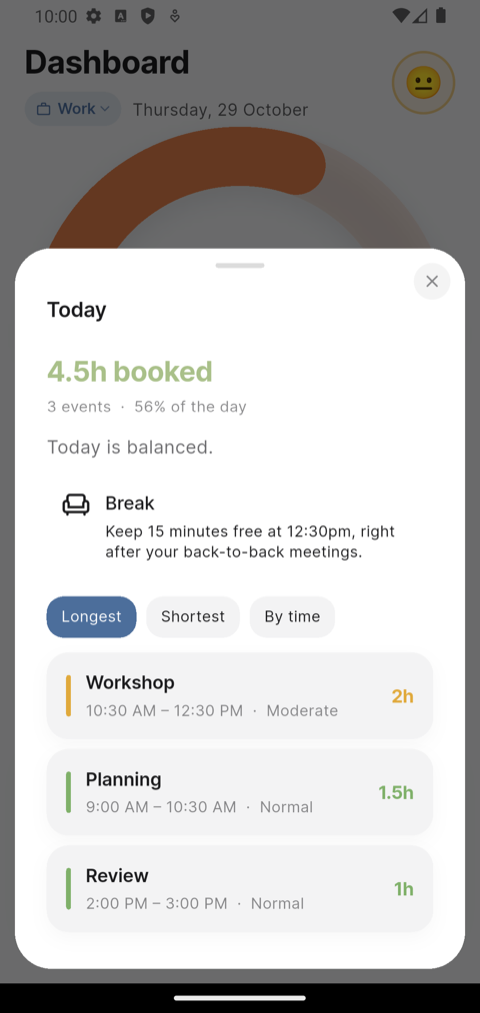
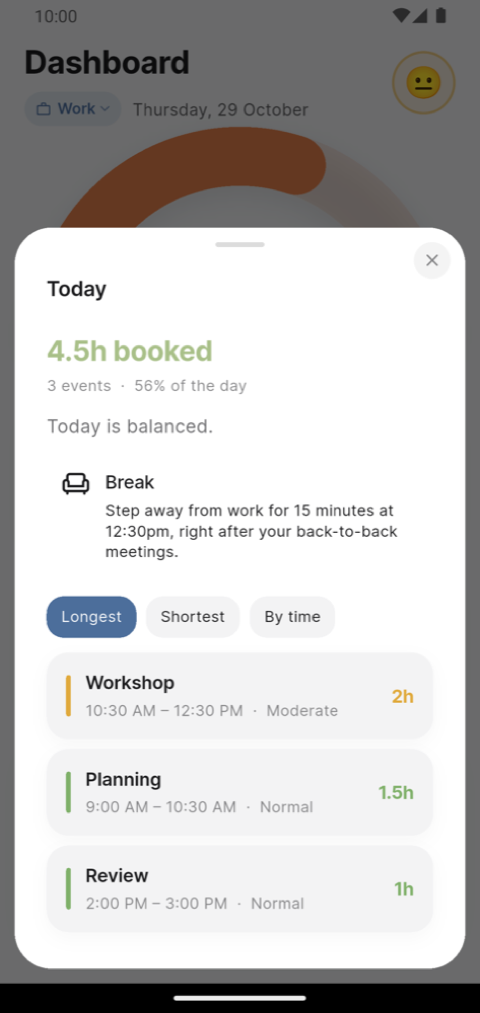
Tutorial: breaks follow the calendar and the mode; Schedule break note; new screenshots

diff --git a/tutorial/index.html b/tutorial/index.html
@@ -199,7 +199,7 @@
 <header>
   <h1>Using BAI</h1>
   <!-- Change this date whenever the guide is edited. -->
-  <p class="updated">Last updated: 29 October 2026</p>
+  <p class="updated">Last updated: 30 October 2026</p>
   <p class="lede">
     BAI helps you understand your workload and become more aware of your work-life boundaries. 
     It can support you in communicating and negotiating these boundaries with others, 
@@ -506,39 +506,57 @@
         BAI looks at your load and, when it gets heavy, says what break would help. It
         never sends this on its own; you see it when you look: <strong>tap the
         figures</strong> on the dashboard's bottom card, on the Today, Week or Month
-        tab, and the window or page that opens shows a <em>Break</em> note.
+        tab, or <strong>open a day on Schedule</strong>, and a <em>Break</em> note
+        shows when the load calls for one.
       </p>
       <ul>
-        <li><strong>Today</strong>: after 2 hours or more back to back (a gap of 10
-            minutes counts as a break), or a long or overloaded day, for example <em>keep 15 minutes free at 12:30, right after your back-to-back meetings</em>, or
-            <em>take at least 30 minutes away today</em>. The gaps are measured inside
-            your work hours when you use Fixed or Custom hours.</li>
+        <li><strong>A day</strong>: after 2 hours or more back to back (a gap of 10
+            minutes already counts as a break), on a filling-up day, or on a long or
+            overloaded day. The length follows the load: 10 minutes after 2 hours
+            back to back, up to 20 after 4 hours or more; 20 for an 8-hour day, 30
+            for an overloaded one, 45 for 10 hours or more. For example <em>step away
+            from work for 15 minutes at 12:30, right after your back-to-back
+            meetings</em>. The free time is the gaps between your events, whatever
+            schedule you use, and it never suggests more minutes than the gap holds.
+            Today in Work mode it says <em>step away from work</em>; in Life mode,
+            and for days ahead, just <em>step away</em>. A stretch that ends your day
+            gets nothing (the evening is the break), and days off get no break
+            notes.</li>
         <li><strong>This week</strong>: after two overloaded days, 4 hours or more of
-            work outside your hours, or 55 hours or more booked, it says what it saw and names an evening
-            and a day off still free, for example <em>6.5h worked outside your hours
-            this week. Keep Thursday evening and Saturday free of work</em>. This can
-            show even in a week the card calls balanced, because the card goes by
-            your average load.</li>
-        <li><strong>This month</strong>: after several heavy weeks,
-            <em>plan a day or two off in the next two weeks</em>. Short breaks
-            help more than saving up for one long holiday: the benefit of a holiday
-            fades within about a week of going back.</li>
+            work outside your hours, or 55 hours or more booked, it says what it saw
+            and names an evening still free, for example <em>6.5h worked outside
+            your hours this week. Keep Thursday evening free of work</em>. When the
+            week is well over, it names a free day off as well. This can show even
+            in a week the card calls balanced, because the card goes by your average
+            load.</li>
+        <li><strong>This month</strong>: after several heavy weeks, <em>plan a day
+            off in the next two weeks</em>, or two days off when it is heavier. Short
+            breaks help more than saving up for one long holiday: the benefit of a
+            holiday fades within about a week of going back.</li>
+        <li><strong>Dates you pick</strong> <span class="new">New</span>: choose a
+            range with the calendar button on the dashboard (then tap the figures), or
+            check dates on Schedule, and the result says what break those dates call
+            for, for example <em>3 overloaded days in these dates. Keep Mon 9 Nov
+            evening and Sat 14 Nov free of work</em>, or <em>These dates are filling
+            up. Keep Mon 9 Nov evening free of work</em>. Nothing for dates that have
+            gone.</li>
         <li><strong>After a mood check-in</strong> of Stressed, Overwhelmed or Burned
-            out while you are at work (in Work mode, and inside your work hours when
-            BAI knows them), the status that opens suggests a break at your next free
-            time, with
-            <strong>Remind me at …</strong>. Tap it and BAI reminds you then, on the
-            lock screen or in the app. After Tired, you get the suggestion without the
+            out on a work day, the status that opens suggests your next free time,
+            with <strong>Remind me at …</strong>. Tap it and BAI reminds you then, on
+            the lock screen or in the app. In Work mode it reads <em>Take a break …
+            step away from work for 15 minutes</em>; in Life mode simply <em>step
+            away for 15 minutes</em>. After Tired, you get the suggestion without the
             button.</li>
       </ul>
       <p class="pillar-when">
-        If your check-ins have been heavy for a few days, the week and month lines come
-        sooner. Nothing shows when your load is ordinary.
+        If your check-ins have been heavy for a few days, the breaks come sooner and
+        today's and tomorrow's run a step longer. On a Partly available arrangement
+        the hours scale with your level. Nothing shows when your load is ordinary.
       </p>
     </div>
     <figure>
-      <img src="img/break-line.png" alt="The window that opens from the dashboard's figures on a heavy day, with a Break note reading Keep 15 minutes free at 12:30, right after your back-to-back meetings" onerror="shotMissing(this)">
-      <img style="margin-top:18px" src="img/break-check-in.png" alt="The status pop-up after a Stressed check-in, with a Break section and a Remind me at 14:00 button" onerror="shotMissing(this)">
+      <img src="img/break-line.png" alt="The window that opens from the dashboard's figures on a heavy day, with a Break note reading Step away from work for 15 minutes at 12:30, right after your back-to-back meetings" onerror="shotMissing(this)">
+      <img style="margin-top:18px" src="img/break-check-in.png" alt="The status pop-up after a Stressed check-in, with a Break section and a Remind me at 12:30pm button" onerror="shotMissing(this)">
       <figcaption>Tap the figures · after a heavy check-in</figcaption>
     </figure>
   </div>
@@ -1085,6 +1103,13 @@
         Below that, every event on the chosen day, with its share of your capacity.
         Finished ones are struck through.
       </p>
+      <p>
+        <span class="new">New</span> When the chosen day calls for a break, a
+        <em>Break</em> note sits under the week strip, for example <em>Step away
+        for 15 minutes at 12:00 on Mon 9 Nov, right after your 3-hour event</em>
+        (<a href="#pillars-a-break-when-your-load-calls-for-one">more about
+        breaks</a>).
+      </p>
     </div>
     <figure>
       <img src="img/schedule-events.png" alt="Schedule screen listing today's events with the share of capacity each one spent">
@@ -1138,6 +1163,12 @@
         holds a limited window; this reads your calendar fresh for whatever dates you
         asked about, so a month out is answered as reliably as tomorrow.
       </div>
+      <p>
+        <span class="new">New</span> When the dates are heavy, the answer also says
+        what break they call for, for example <em>Break: 3 overloaded days in these
+        dates. Keep Mon 9 Nov evening and Sat 14 Nov free of work</em>
+        (<a href="#pillars-a-break-when-your-load-calls-for-one">more about breaks</a>).
+      </p>
       <p class="why">
         This is the one to reach for when somebody asks you to commit to a date, which
         is exactly when the diary is hardest to hold in your head.
